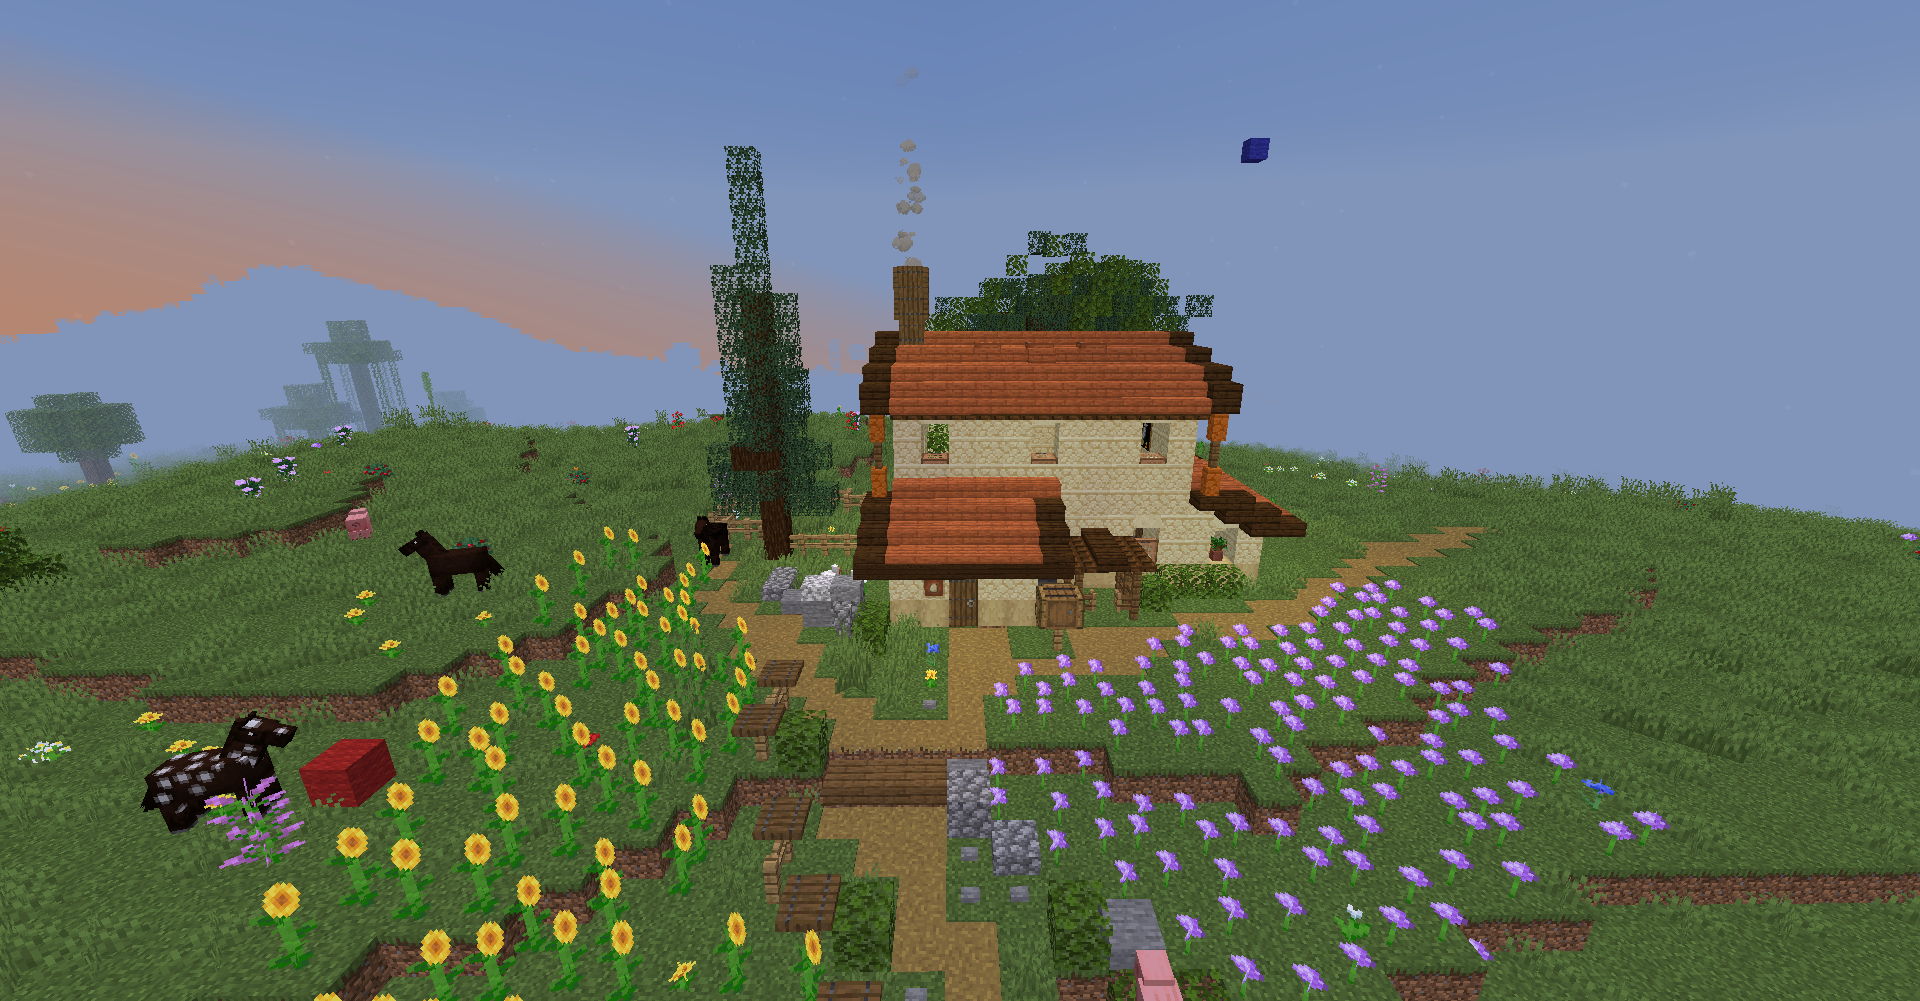
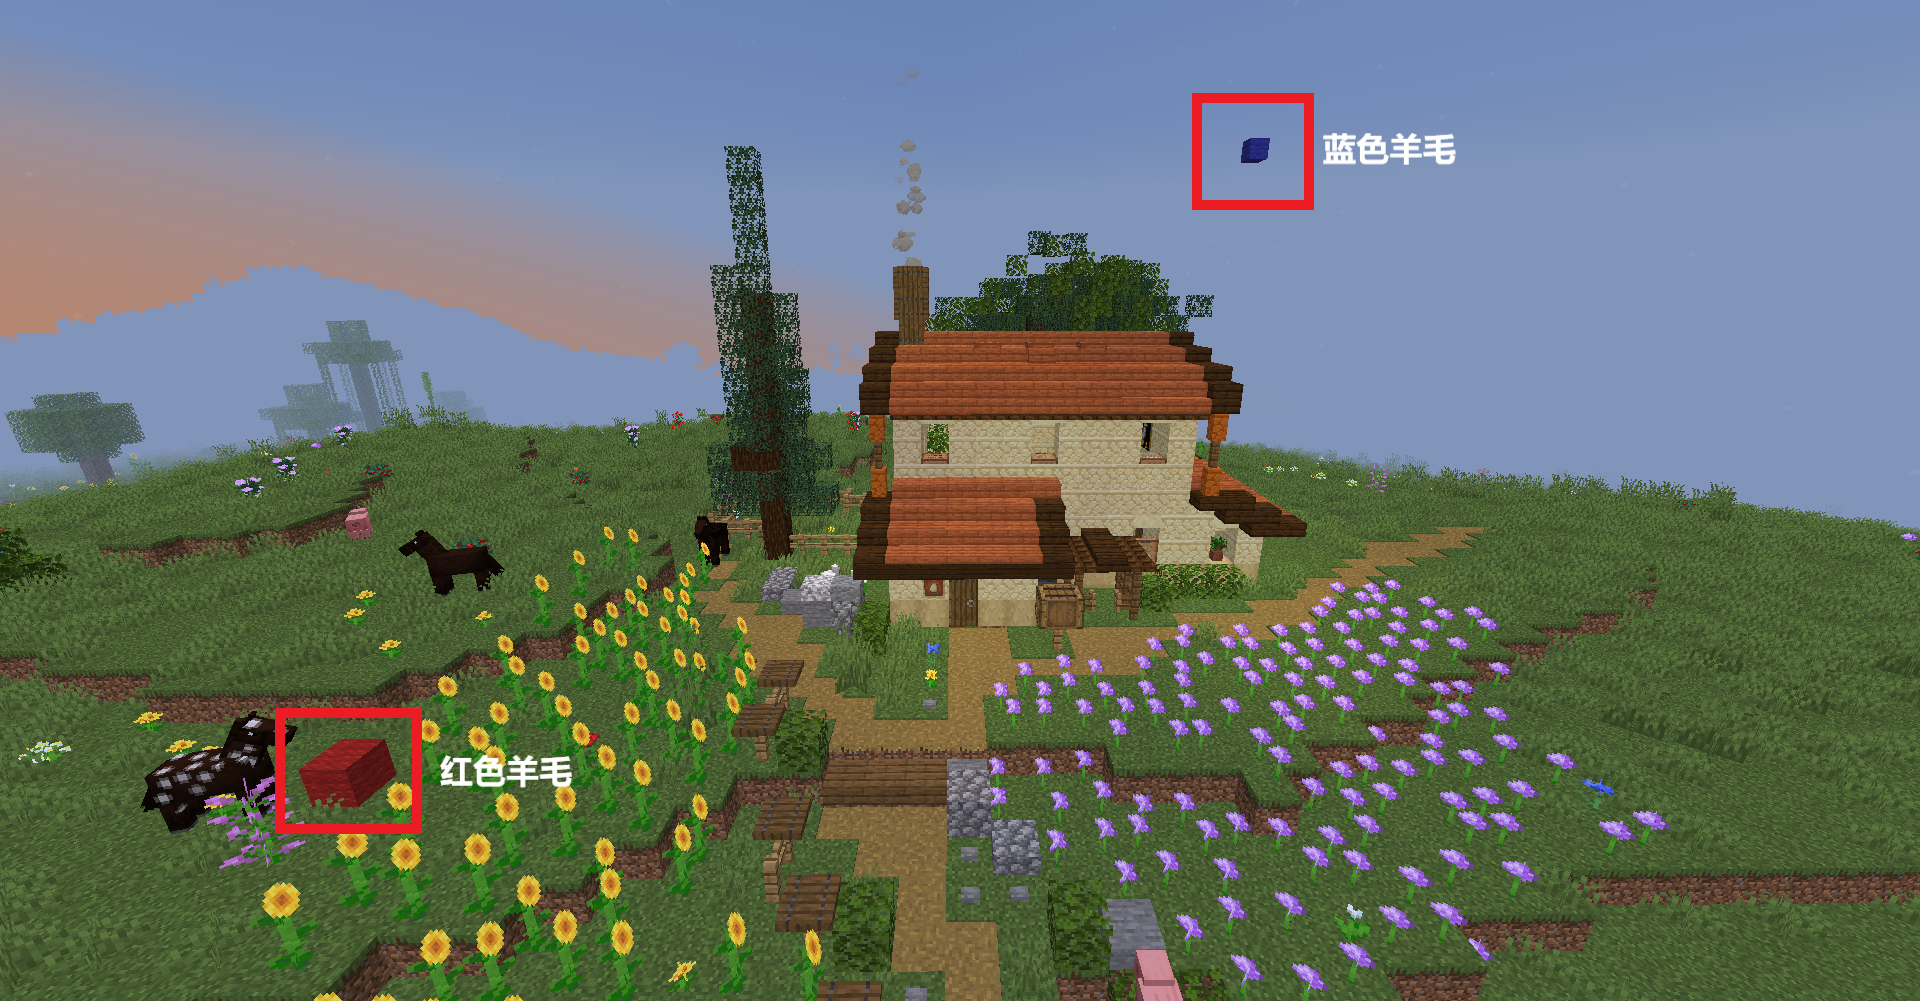
update

Changed region(s): [[0.125, 0.6813, 0.3125, 0.8362], [0.5938, 0.0929, 0.7812, 0.2168]]

diff --git a/docs/residence.md b/docs/residence.md
@@ -22,9 +22,9 @@
 
 1. 合成一个 <img src="pics/wooden_hoe.png" class="icon" alt="木锄头图标"/> `木锄头` ，在你想要圈起来的空间，比如图片中的小房子：
 
-    用木锄头**左键点击**第一个点 **<font color=red>(红色羊毛)</font>**；
+    用木锄头 **左键** 点击第一个点<font color=red>（下图红色羊毛）</font>；
 
-    用木锄头**右键点击**第二个点 **<font color=blue>(蓝色羊毛)</font>**。
+    用木锄头 **右键** 点击第二个点<font color=blue>（下图蓝色羊毛）</font>。
 
 ![选择领地的两个点](pics/resselect.png)
 

diff --git a/docs/_navbar.md b/docs/_navbar.md
@@ -1,7 +1,7 @@
 * **<font color=gold>致谢</font>**
   * [**<font color=lightblue>给予本服支持的玩家们**](/donate?id=一些感谢的话)
   * [**Mirai QQ 机器人开发组**](https://github.com/mamoe/mirai)
-  * [**JetBrains软件开发公司</font>**](https://www.jetbrains.com/)
+  * [**JetBrains 公司</font>**](https://www.jetbrains.com/)
 * **<font color=canyon>友情链接</font>**
   * [<font color=orange>DripDrop卫星地图</font>](http://txyminecraft.club:8123/)
   * [<font color=blue>Minecraft中文维基</font>](https://minecraft.fandom.com/zh/wiki/Minecraft_Wiki)
